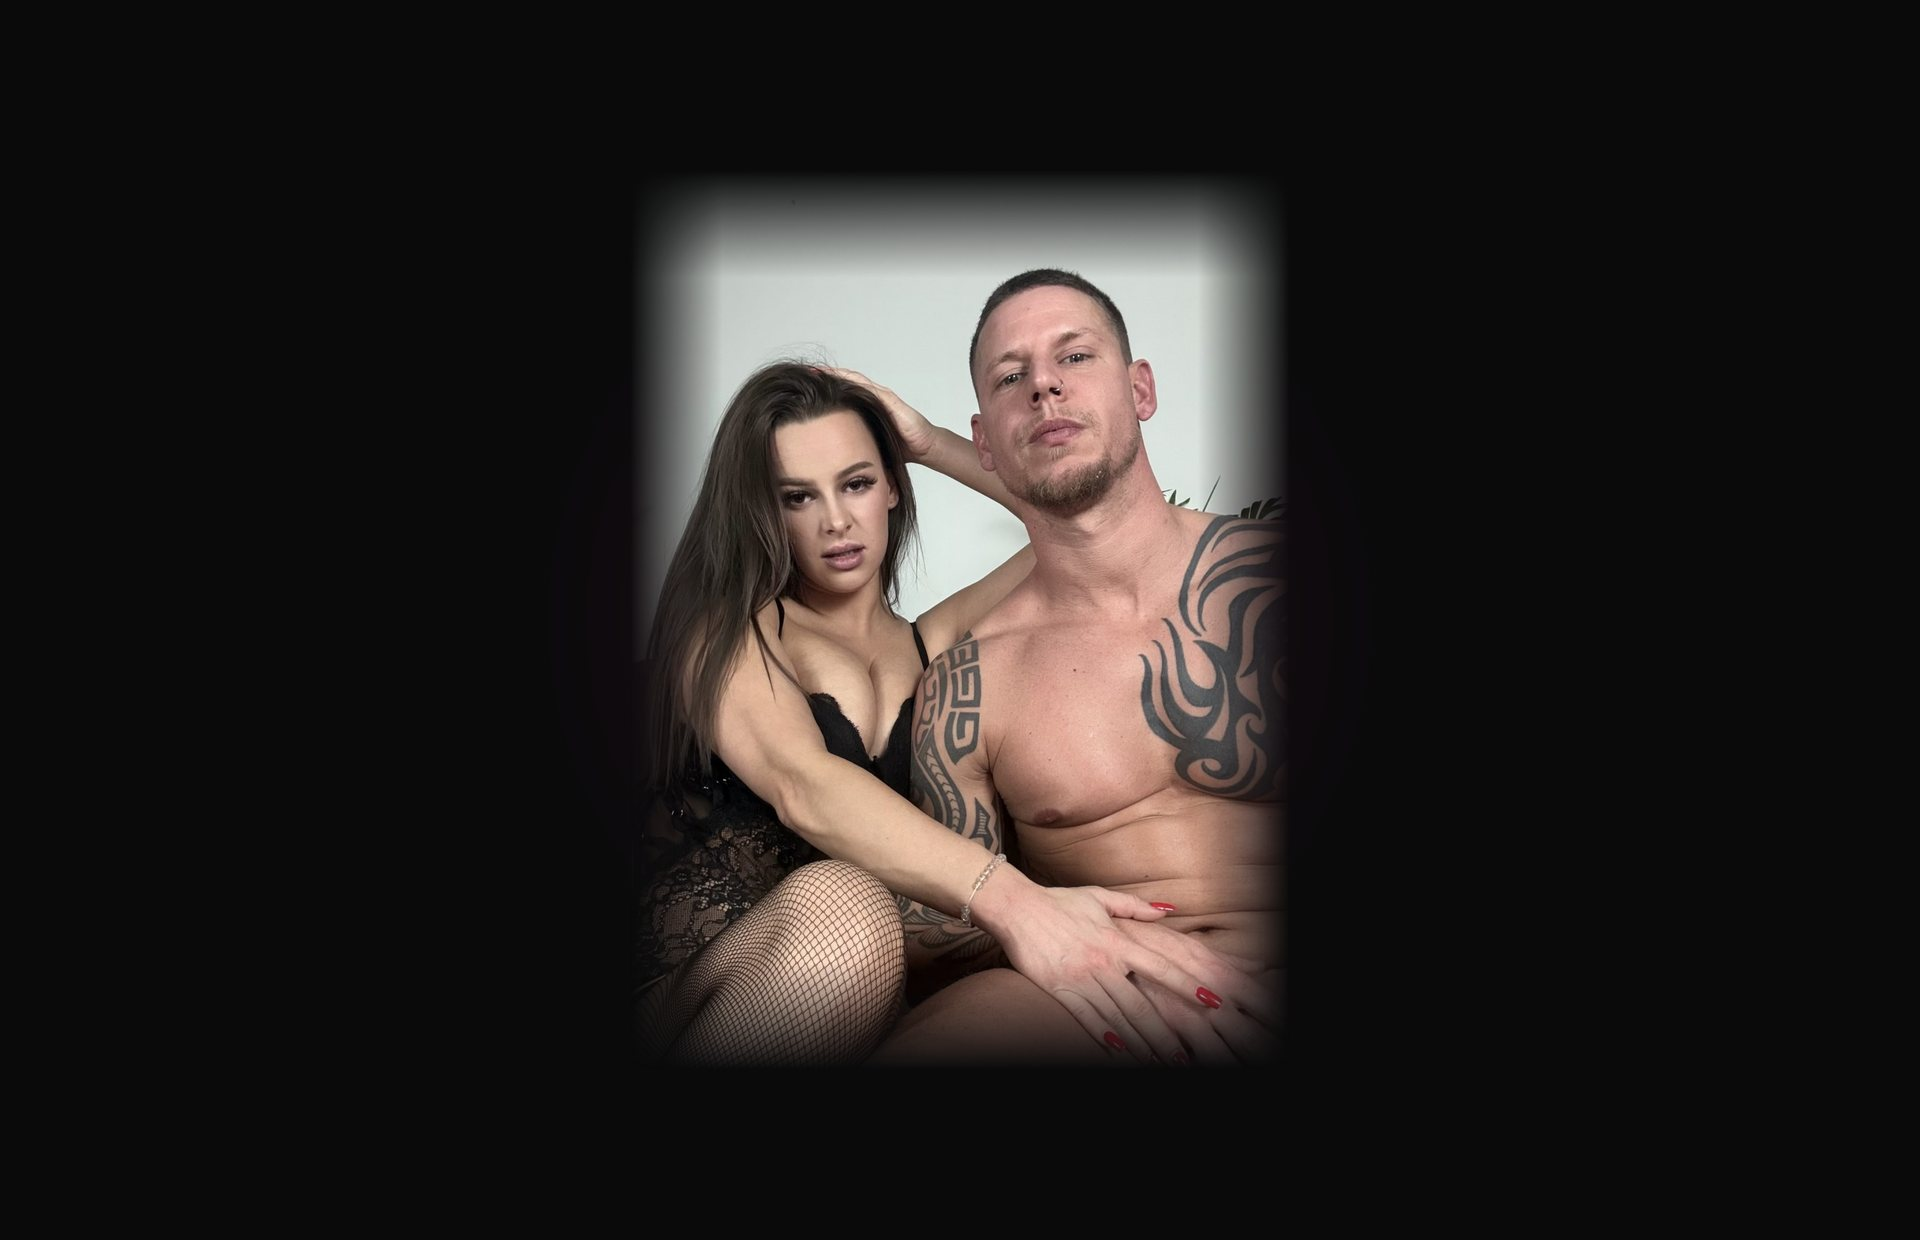
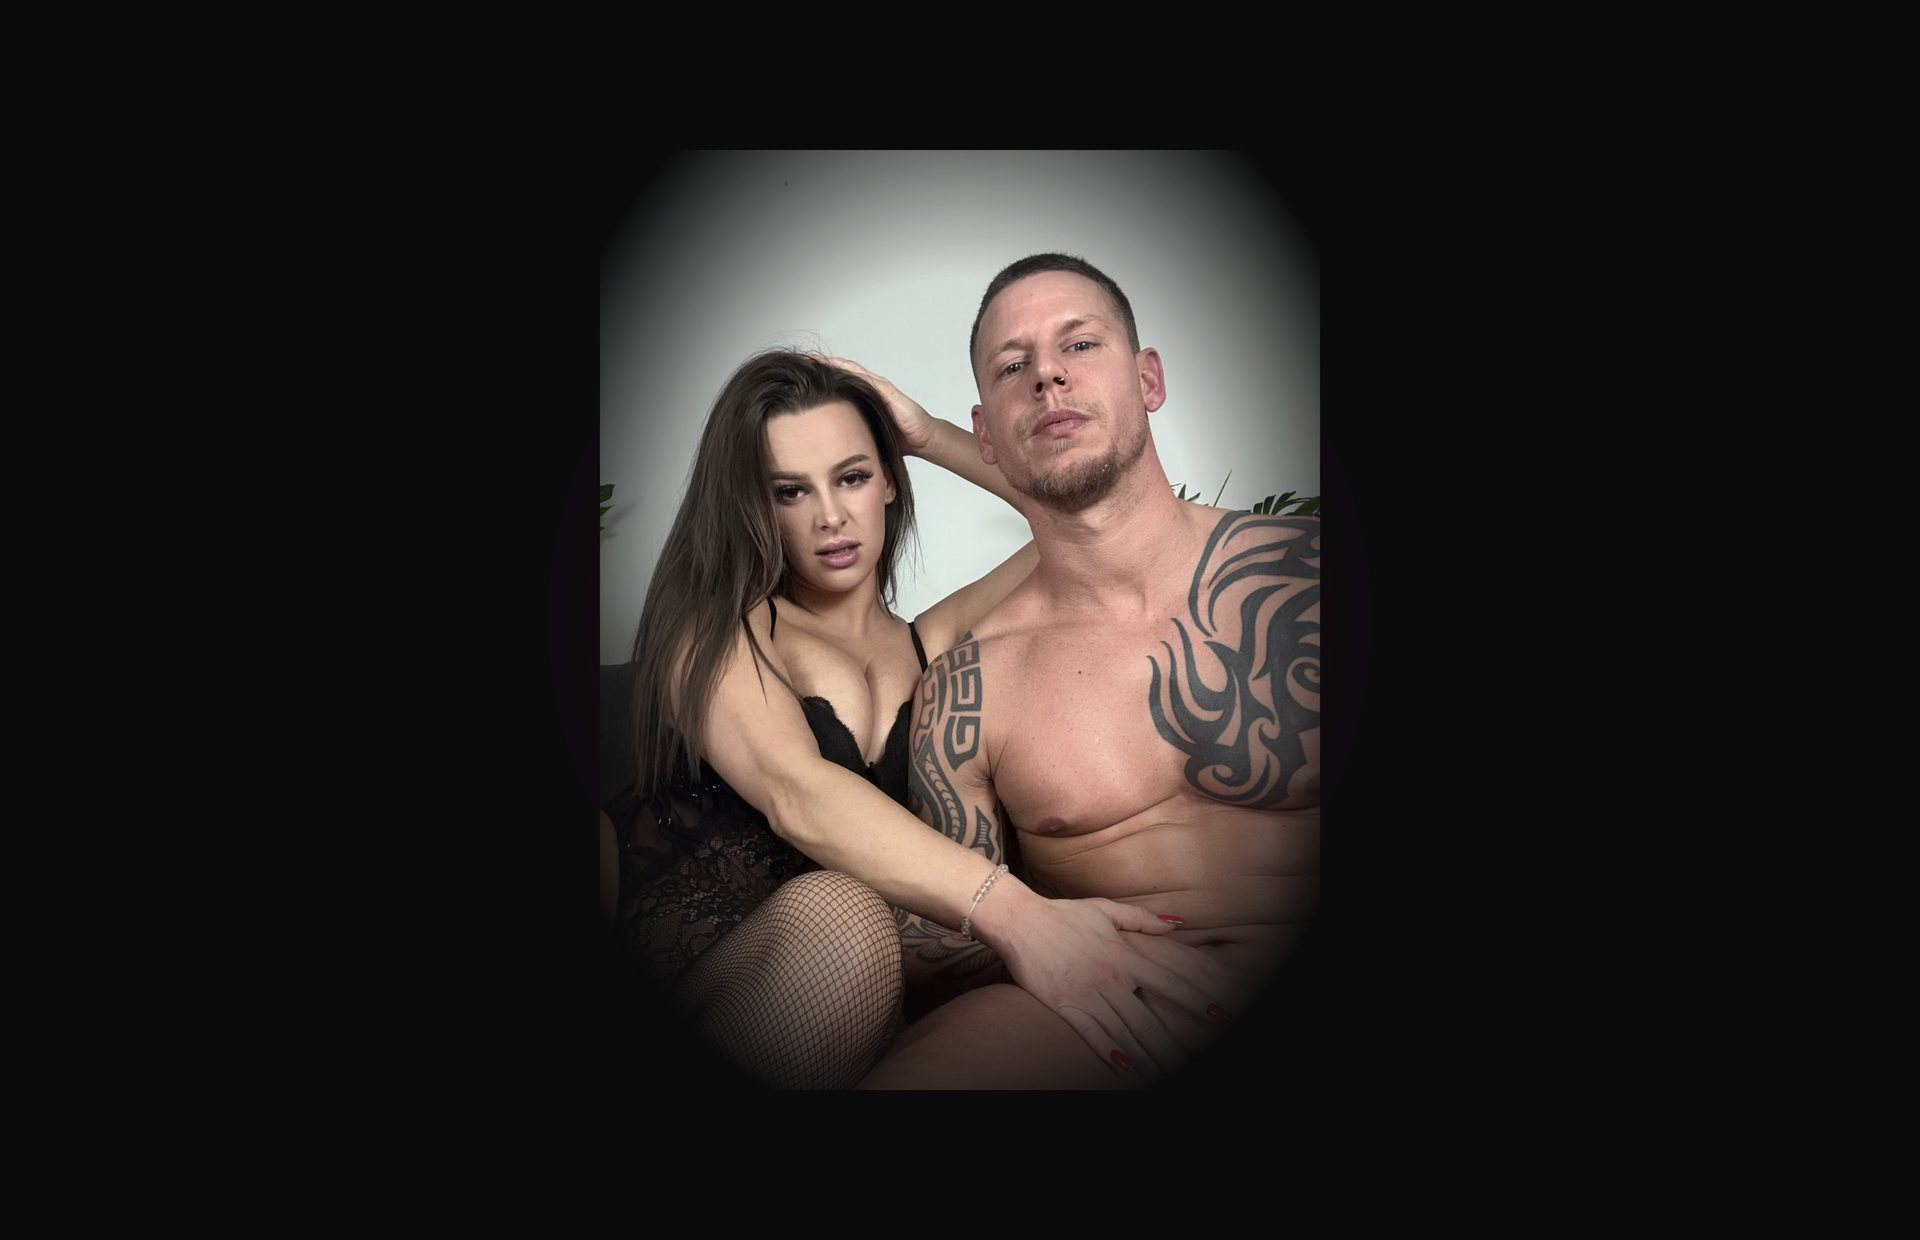
Oval hero fade + add vivid-pink 'What you get' positives block
Claude-Session: https://claude.ai/code/session_01RtbiUYFNdswaq59EqqYNLn

Changed region(s): [[0.3125, 0.1226, 0.6875, 0.8887], [0.3125, 0.6742, 0.3438, 0.7048]]

diff --git a/fg-plus.html b/fg-plus.html
@@ -1,0 +1,32 @@
+<!DOCTYPE html>
+<html lang="en"><head><meta charset="utf-8">
+<link rel="preconnect" href="https://fonts.googleapis.com"><link rel="preconnect" href="https://fonts.gstatic.com" crossorigin>
+<link href="https://fonts.googleapis.com/css2?family=Space+Grotesk:wght@500;600;700&family=Inter:wght@300;400;500&display=swap" rel="stylesheet">
+<style>
+  :root{--ink:#120309;--soft:rgba(18,3,9,.66);--line:rgba(18,3,9,.16);}
+  *{box-sizing:border-box;margin:0;padding:0;}
+  /* what you get — vivid pink block */
+  .bar{width:1920px;height:900px;background:#FF2E7E;font-family:'Inter',sans-serif;color:var(--ink);
+    display:flex;flex-direction:column;justify-content:center;padding:0 300px;}
+  .eyebrow{font-family:'Space Grotesk',sans-serif;font-weight:500;font-size:22px;letter-spacing:.3em;text-transform:uppercase;color:var(--ink);opacity:.7;margin-bottom:26px;}
+  h1{font-family:'Space Grotesk',sans-serif;font-weight:700;font-size:88px;line-height:1;letter-spacing:-.025em;margin-bottom:60px;}
+  .grid{list-style:none;display:grid;grid-template-columns:1fr 1fr;gap:0 120px;max-width:1260px;}
+  .grid li{display:flex;gap:22px;align-items:baseline;padding:30px 0;border-bottom:1px solid var(--line);
+    font-family:'Space Grotesk',sans-serif;font-weight:500;font-size:33px;line-height:1.24;letter-spacing:-.01em;}
+  .grid li::before{content:"";flex:none;width:13px;height:13px;border-radius:50%;background:var(--ink);transform:translateY(-4px);}
+  .foot{margin-top:52px;font-size:29px;font-weight:300;color:var(--soft);}
+  .foot b{color:var(--ink);font-weight:500;}
+</style></head>
+<body>
+<div class="bar">
+  <div class="eyebrow">Now the fun part</div>
+  <h1>What you get</h1>
+  <ul class="grid">
+    <li>You'll always feel welcome here.</li>
+    <li>Your fantasies — we love trying them.</li>
+    <li>We fuck hard, right in front of you.</li>
+    <li>Private shows when you spoil us.</li>
+  </ul>
+  <div class="foot">Tip for something and we do it <b>properly</b> — no half measures.</div>
+</div>
+</body></html>

diff --git a/bg-main.html b/bg-main.html
@@ -8,12 +8,10 @@
     display:flex;align-items:center;justify-content:center;}
   .glow{position:absolute;left:50%;top:50%;width:1000px;height:1000px;transform:translate(-50%,-50%);
     background:radial-gradient(circle,rgba(255,46,126,.10) 0%,rgba(255,46,126,0) 62%);}
-  .frame{position:relative;width:660px;height:900px;
+  .frame{position:relative;width:720px;height:940px;
     background:url('assets/bio/couple-src.jpg') center 16%/cover no-repeat;
-    -webkit-mask-image:
-      linear-gradient(90deg,transparent 0%,#000 14%,#000 86%,transparent 100%),
-      linear-gradient(180deg,transparent 0%,#000 12%,#000 88%,transparent 100%);
-    -webkit-mask-composite:source-in;mask-composite:intersect;}
+    -webkit-mask-image:radial-gradient(ellipse 62% 60% at 50% 46%,#000 54%,rgba(0,0,0,0) 100%);
+            mask-image:radial-gradient(ellipse 62% 60% at 50% 46%,#000 54%,rgba(0,0,0,0) 100%);}
 </style></head>
 <body>
 <div id="bg">
